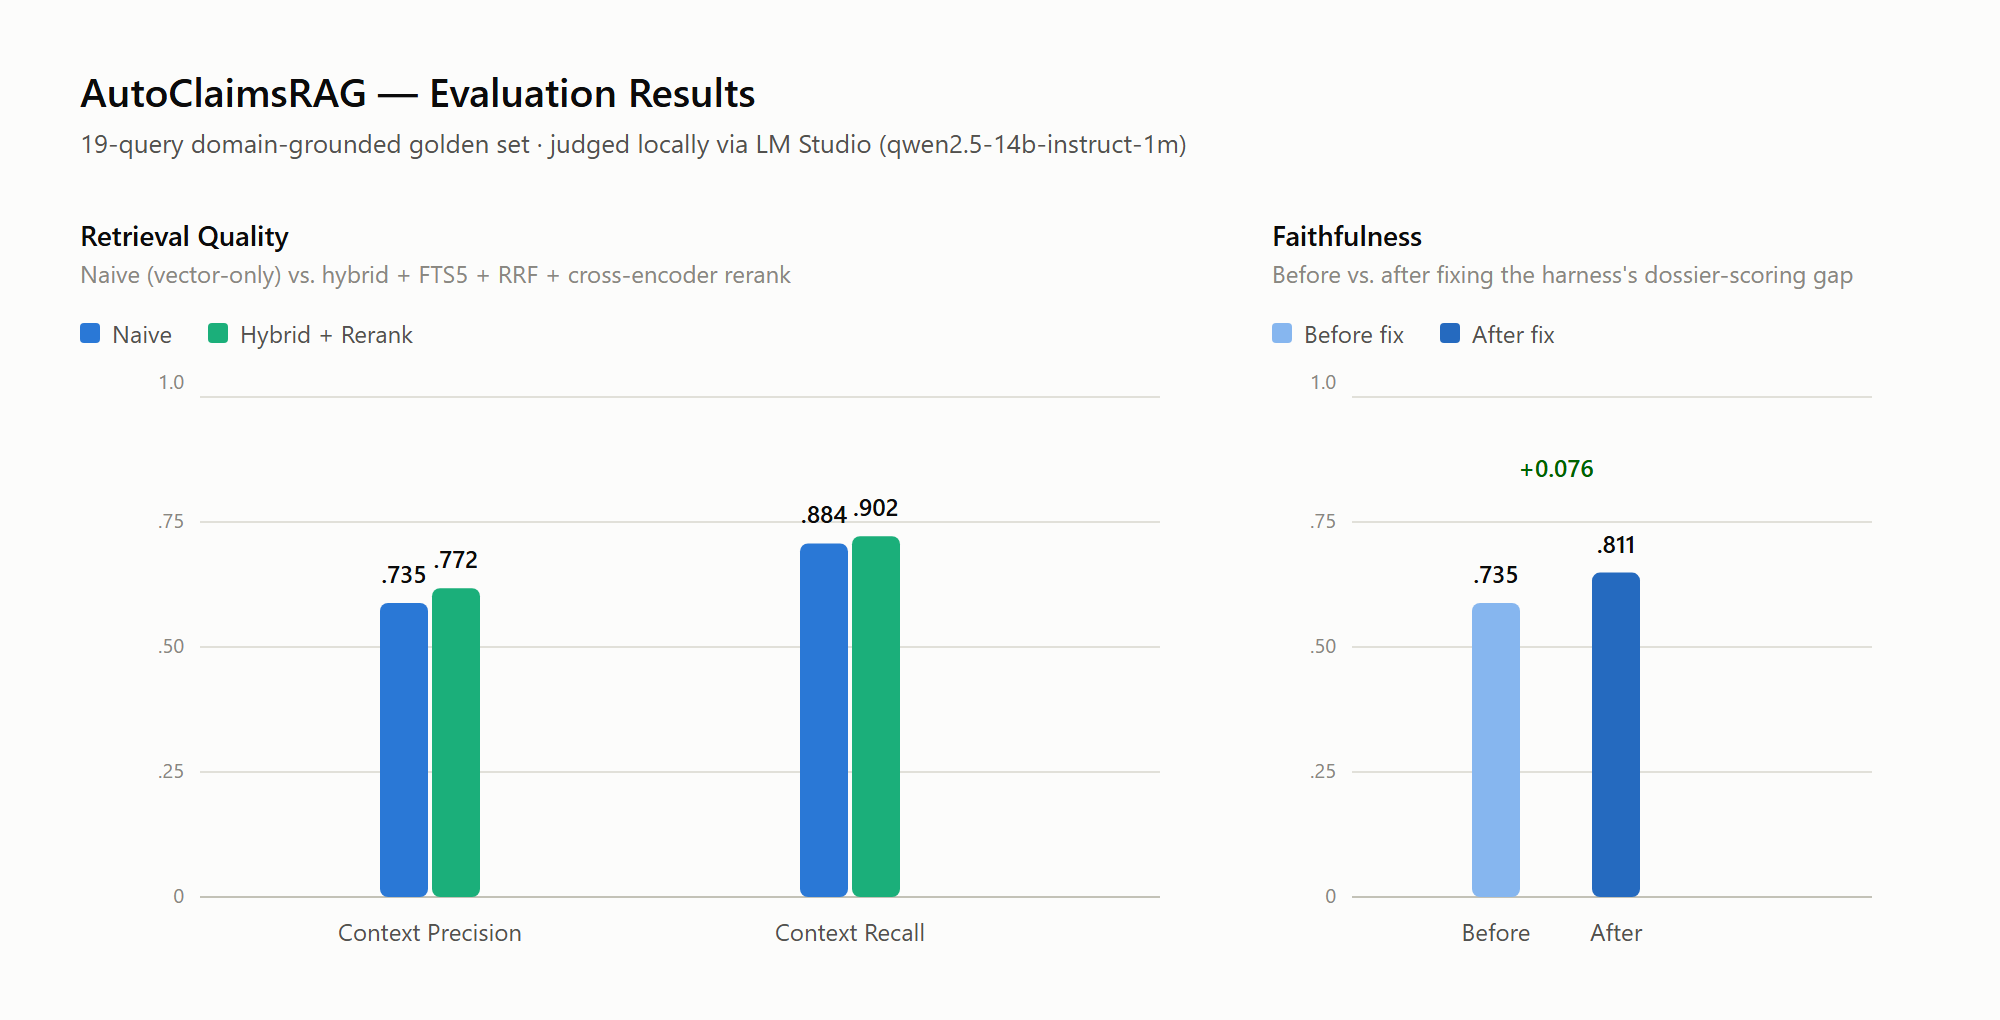
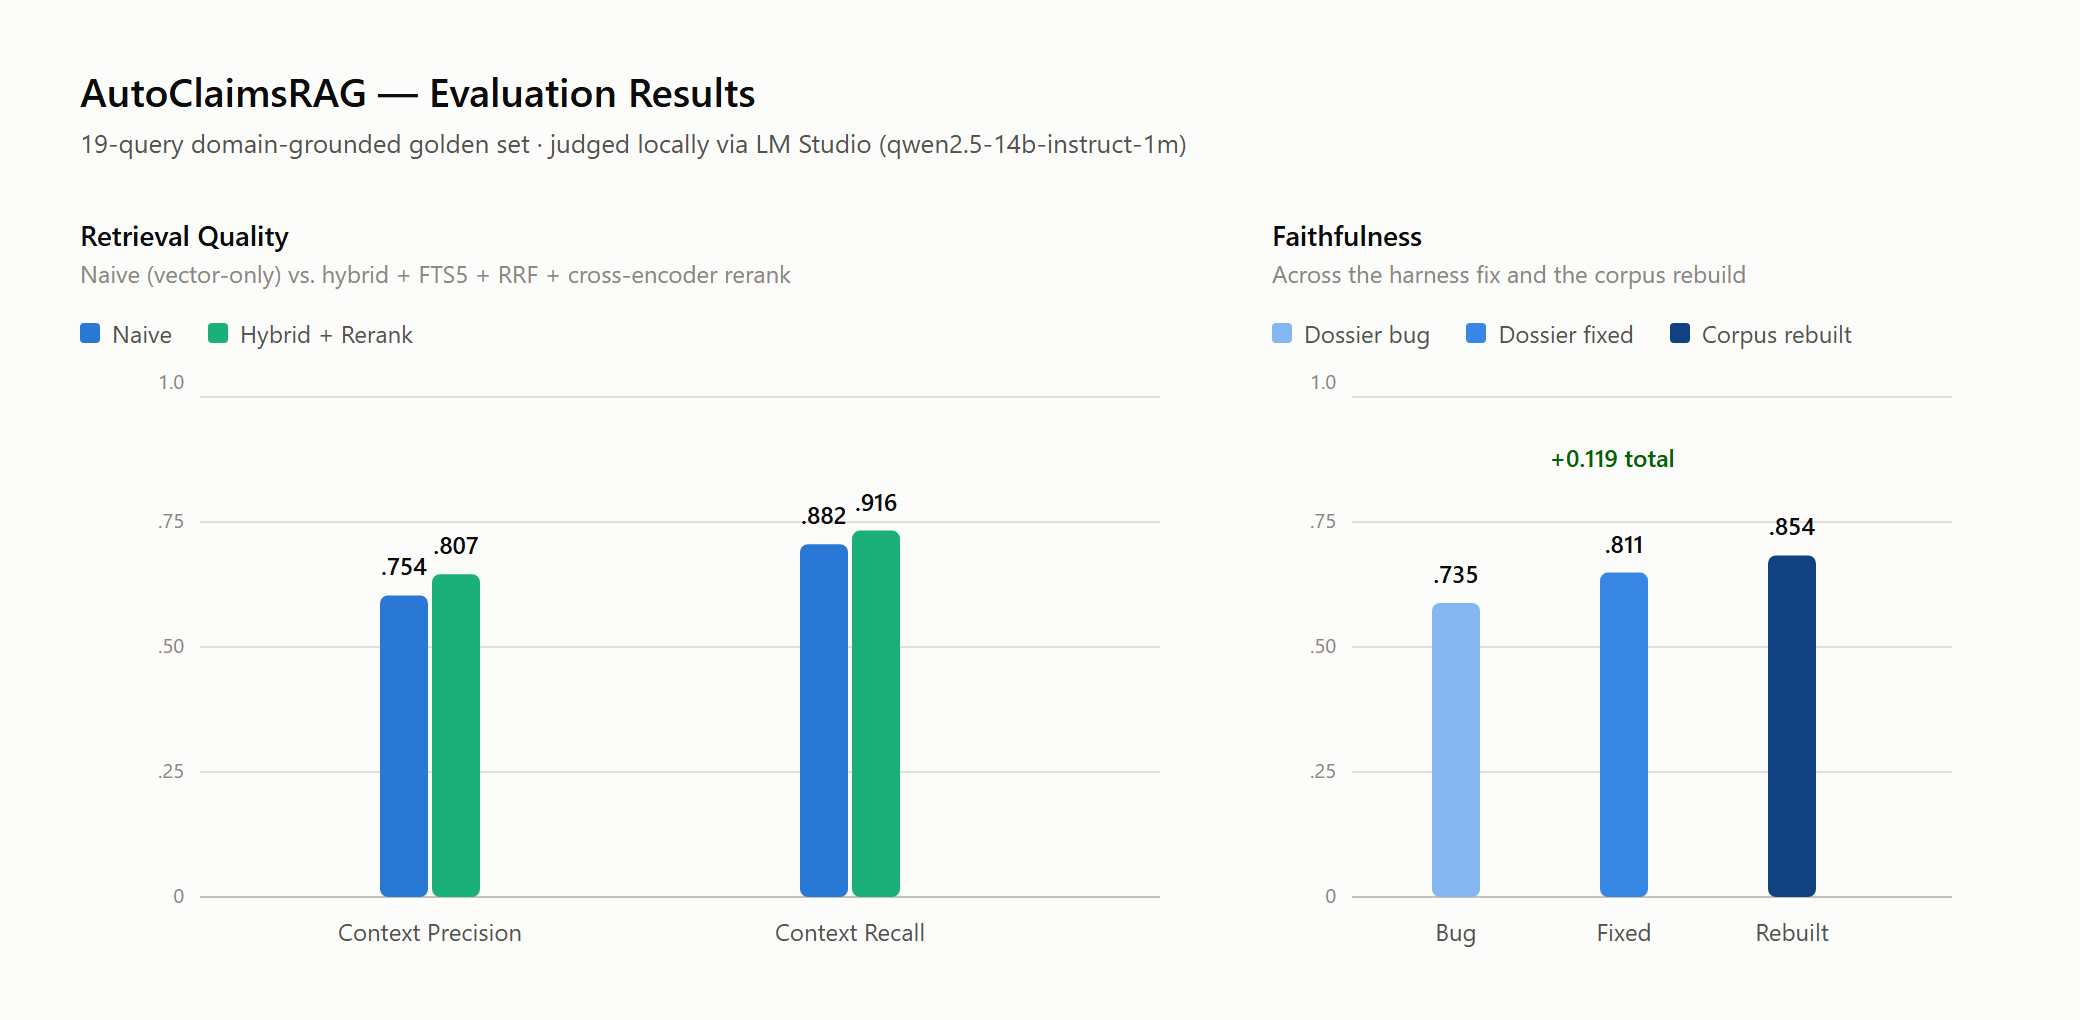
docs: Rerun eval suite against the rebuilt corpus, update README with fresh numbers
The Phase 10 audit fixed a corpus-wide chunking bug and restored ~42
documents from fake-text-with-a-real-extension to actual binaries -- both
change what gets retrieved, so the previously-reported eval numbers no
longer reflected the actual corpus. Reran rather than silently editing them.

Results: Context Precision naive 0.735->0.754, hybrid 0.772->0.807.
Context Recall naive 0.884->0.882, hybrid 0.902->0.916. Faithfulness
0.811->0.854. A real, independent improvement from the corpus fixes, on
top of the earlier dossier-scoring fix.

Updated the README's specific per-query examples to match current data --
several individual scores moved with the corpus (e.g.
sterling-shop-estimate-detail's hybrid precision went from a real failure,
0.0 recall, to 1.0/1.0), so the old worked examples would have been
inaccurate next to the updated aggregate numbers. Rebuilt
assets/eval_results.png and expanded the Faithfulness panel to a 3-point
progression (dossier bug -> dossier fixed -> corpus rebuilt), which is a
more honest chart than a single before/after now that two distinct fixes
have landed.

diff --git a/README.md b/README.md
@@ -66,20 +66,20 @@ Most RAG demos never measure anything past a handful of manually-eyeballed examp
 
 ### Results
 
-![Evaluation results: Context Precision and Recall for naive vs. hybrid+rerank retrieval, and Faithfulness before and after fixing the harness's dossier-scoring gap](assets/eval_results.png)
+![Evaluation results: Context Precision and Recall for naive vs. hybrid+rerank retrieval, and Faithfulness across the dossier-scoring fix and the corpus rebuild](assets/eval_results.png)
 
 | Metric | Naive | Hybrid + Rerank |
 |---|---|---|
-| Context Precision | 0.735 | 0.772 |
-| Context Recall | 0.884 | 0.902 |
-| Faithfulness (live answers) | — | 0.811 |
+| Context Precision | 0.754 | 0.807 |
+| Context Recall | 0.882 | 0.916 |
+| Faithfulness (live answers) | — | 0.854 |
 
-The aggregate retrieval gap understates the story. 12 of 19 queries are single-fact global lookups both methods already ace near-perfectly — the interesting signal is in the 7 claim-scoped queries:
+The aggregate retrieval gap understates the story. 12 of 19 queries are single-fact global lookups both methods ace near-perfectly — the interesting signal is in the 7 claim-scoped queries:
 
-- **Clear hybrid wins**: a deductible lookup where naive's top hit was a narratively-similar case study instead of the actual deductibles table (+0.19 precision); a claim-scoped police report query where naive's top-1 was an image file with no real text content, correctly demoted by reranking (+0.5 precision).
-- **Reported honestly, not cherry-picked away**: hybrid was flat or slightly *worse* on two queries, pulled in by an irrelevant image file and a topically-adjacent-but-wrong document respectively.
-- **The most important finding wasn't a hybrid-vs-naive story at all**: one query — "does this claim's stolen equipment exceed the endorsement cap, and by how much" — needs *two* documents (the endorsement's cap *and* the claim-specific receipt total) surfaced together, and single-shot top-k retrieval failed to do that in *either* mode. That's not a retrieval-tuning gap, it's the exact structural reason the agentic planner's query decomposition exists — this eval validates the architecture's design rationale, it doesn't just score the retrieval layer in isolation.
-- **Faithfulness rose from 0.735 to 0.811** once the harness was fixed to score against everything the model was actually grounded in (see bug #3 below) — every claim-scoped query's score improved once the claim dossier was included, while global-only queries stayed flat, confirming the fix targeted the right thing rather than just moving noise around.
+- **Clear hybrid wins**: a claim-scoped shop-estimate query where naive completely missed the source document (0.0 recall) while hybrid retrieved it with near-perfect precision and recall; a police report query where naive's top-1 was an image file with no real text content, correctly demoted by reranking (naive 0.5 → hybrid 1.0 precision).
+- **Reported honestly, not cherry-picked away**: hybrid was clearly *worse* on two queries — one where naive reached 1.0 precision and hybrid stalled at 0.5, another where hybrid's recall dropped to 0.4 (naive 0.75) after pulling in a topically-adjacent-but-wrong document. Real regressions, not smoothed over.
+- **The most important finding wasn't a hybrid-vs-naive story at all**: one query — "does this claim's stolen equipment exceed the endorsement cap, and by how much" — needs *two* documents (the endorsement's cap *and* the claim-specific receipt total) surfaced together, and single-shot top-k retrieval failed to do that in *either* mode, before or after the corpus rebuild. That's not a retrieval-tuning gap, it's the exact structural reason the agentic planner's query decomposition exists (see Phase 9 in the fixes below) — this eval validates the architecture's design rationale, it doesn't just score the retrieval layer in isolation.
+- **Faithfulness rose 0.735 → 0.811 → 0.854** across two distinct fixes: first when the harness was corrected to score against everything the model was actually grounded in (see bug #3 below), then again after a full corpus rebuild fixed a chunking bug and restored ~42 documents that had silently been saved as fake binaries (see "Bugs this eval harness actually found" in the codebase history). Two different fixes, two independent, honest improvements — not one number tuned repeatedly until it looked good.
 
 ### Bugs this eval harness actually found and fixed
 
